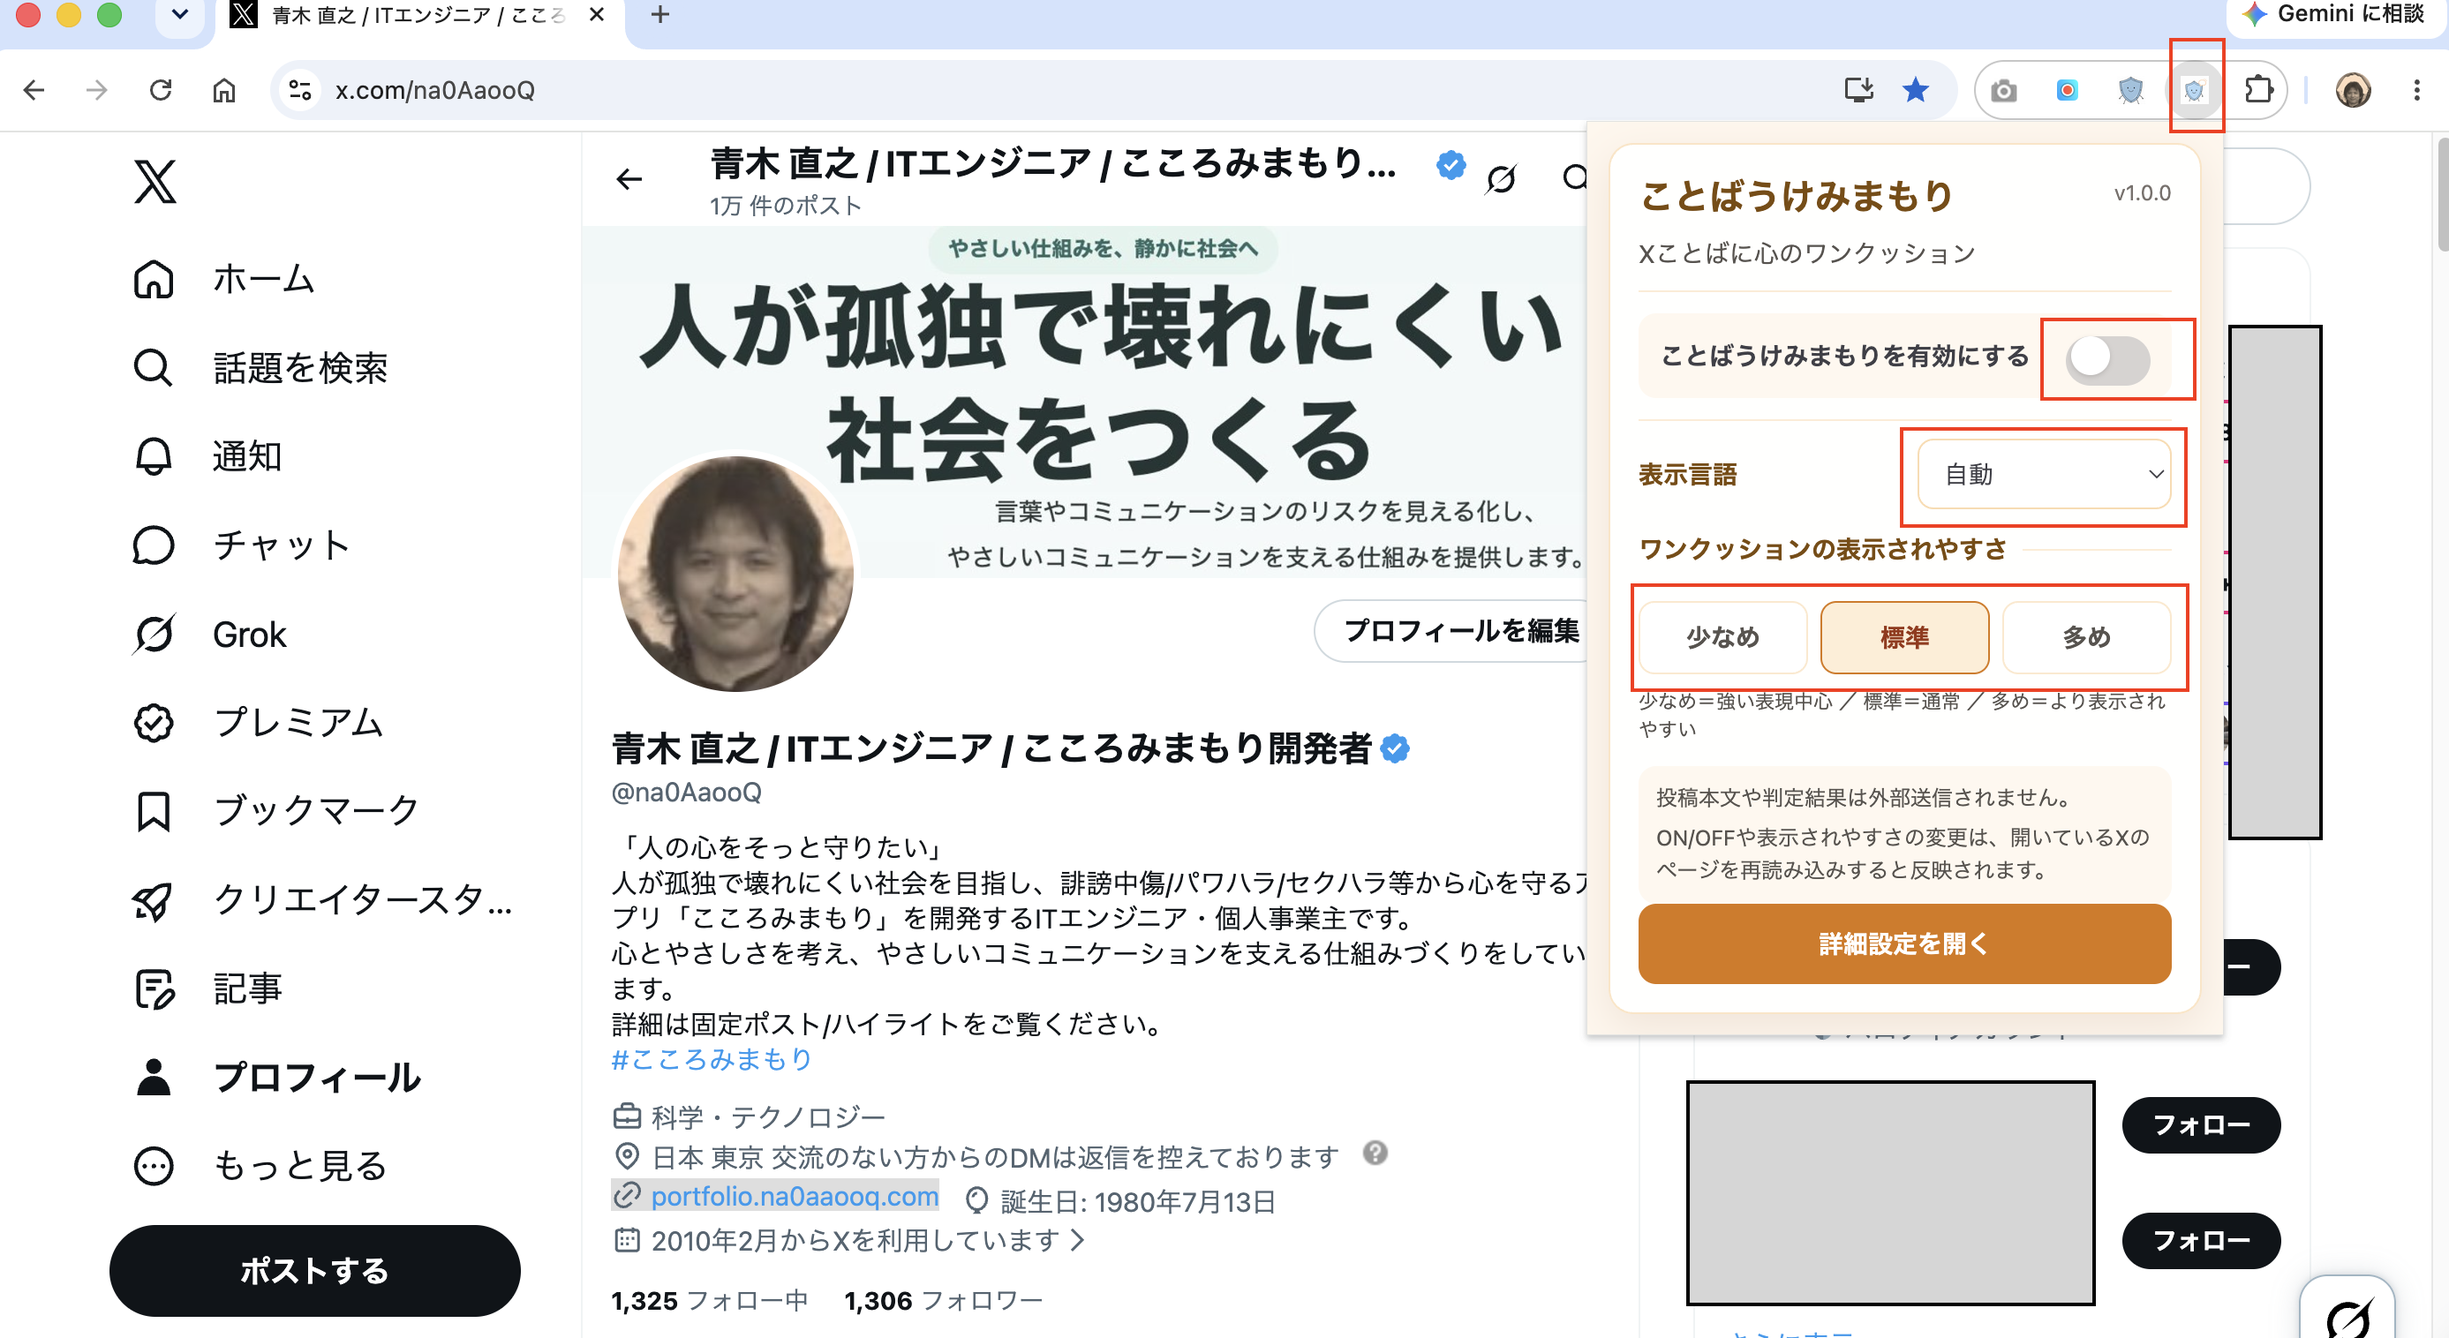
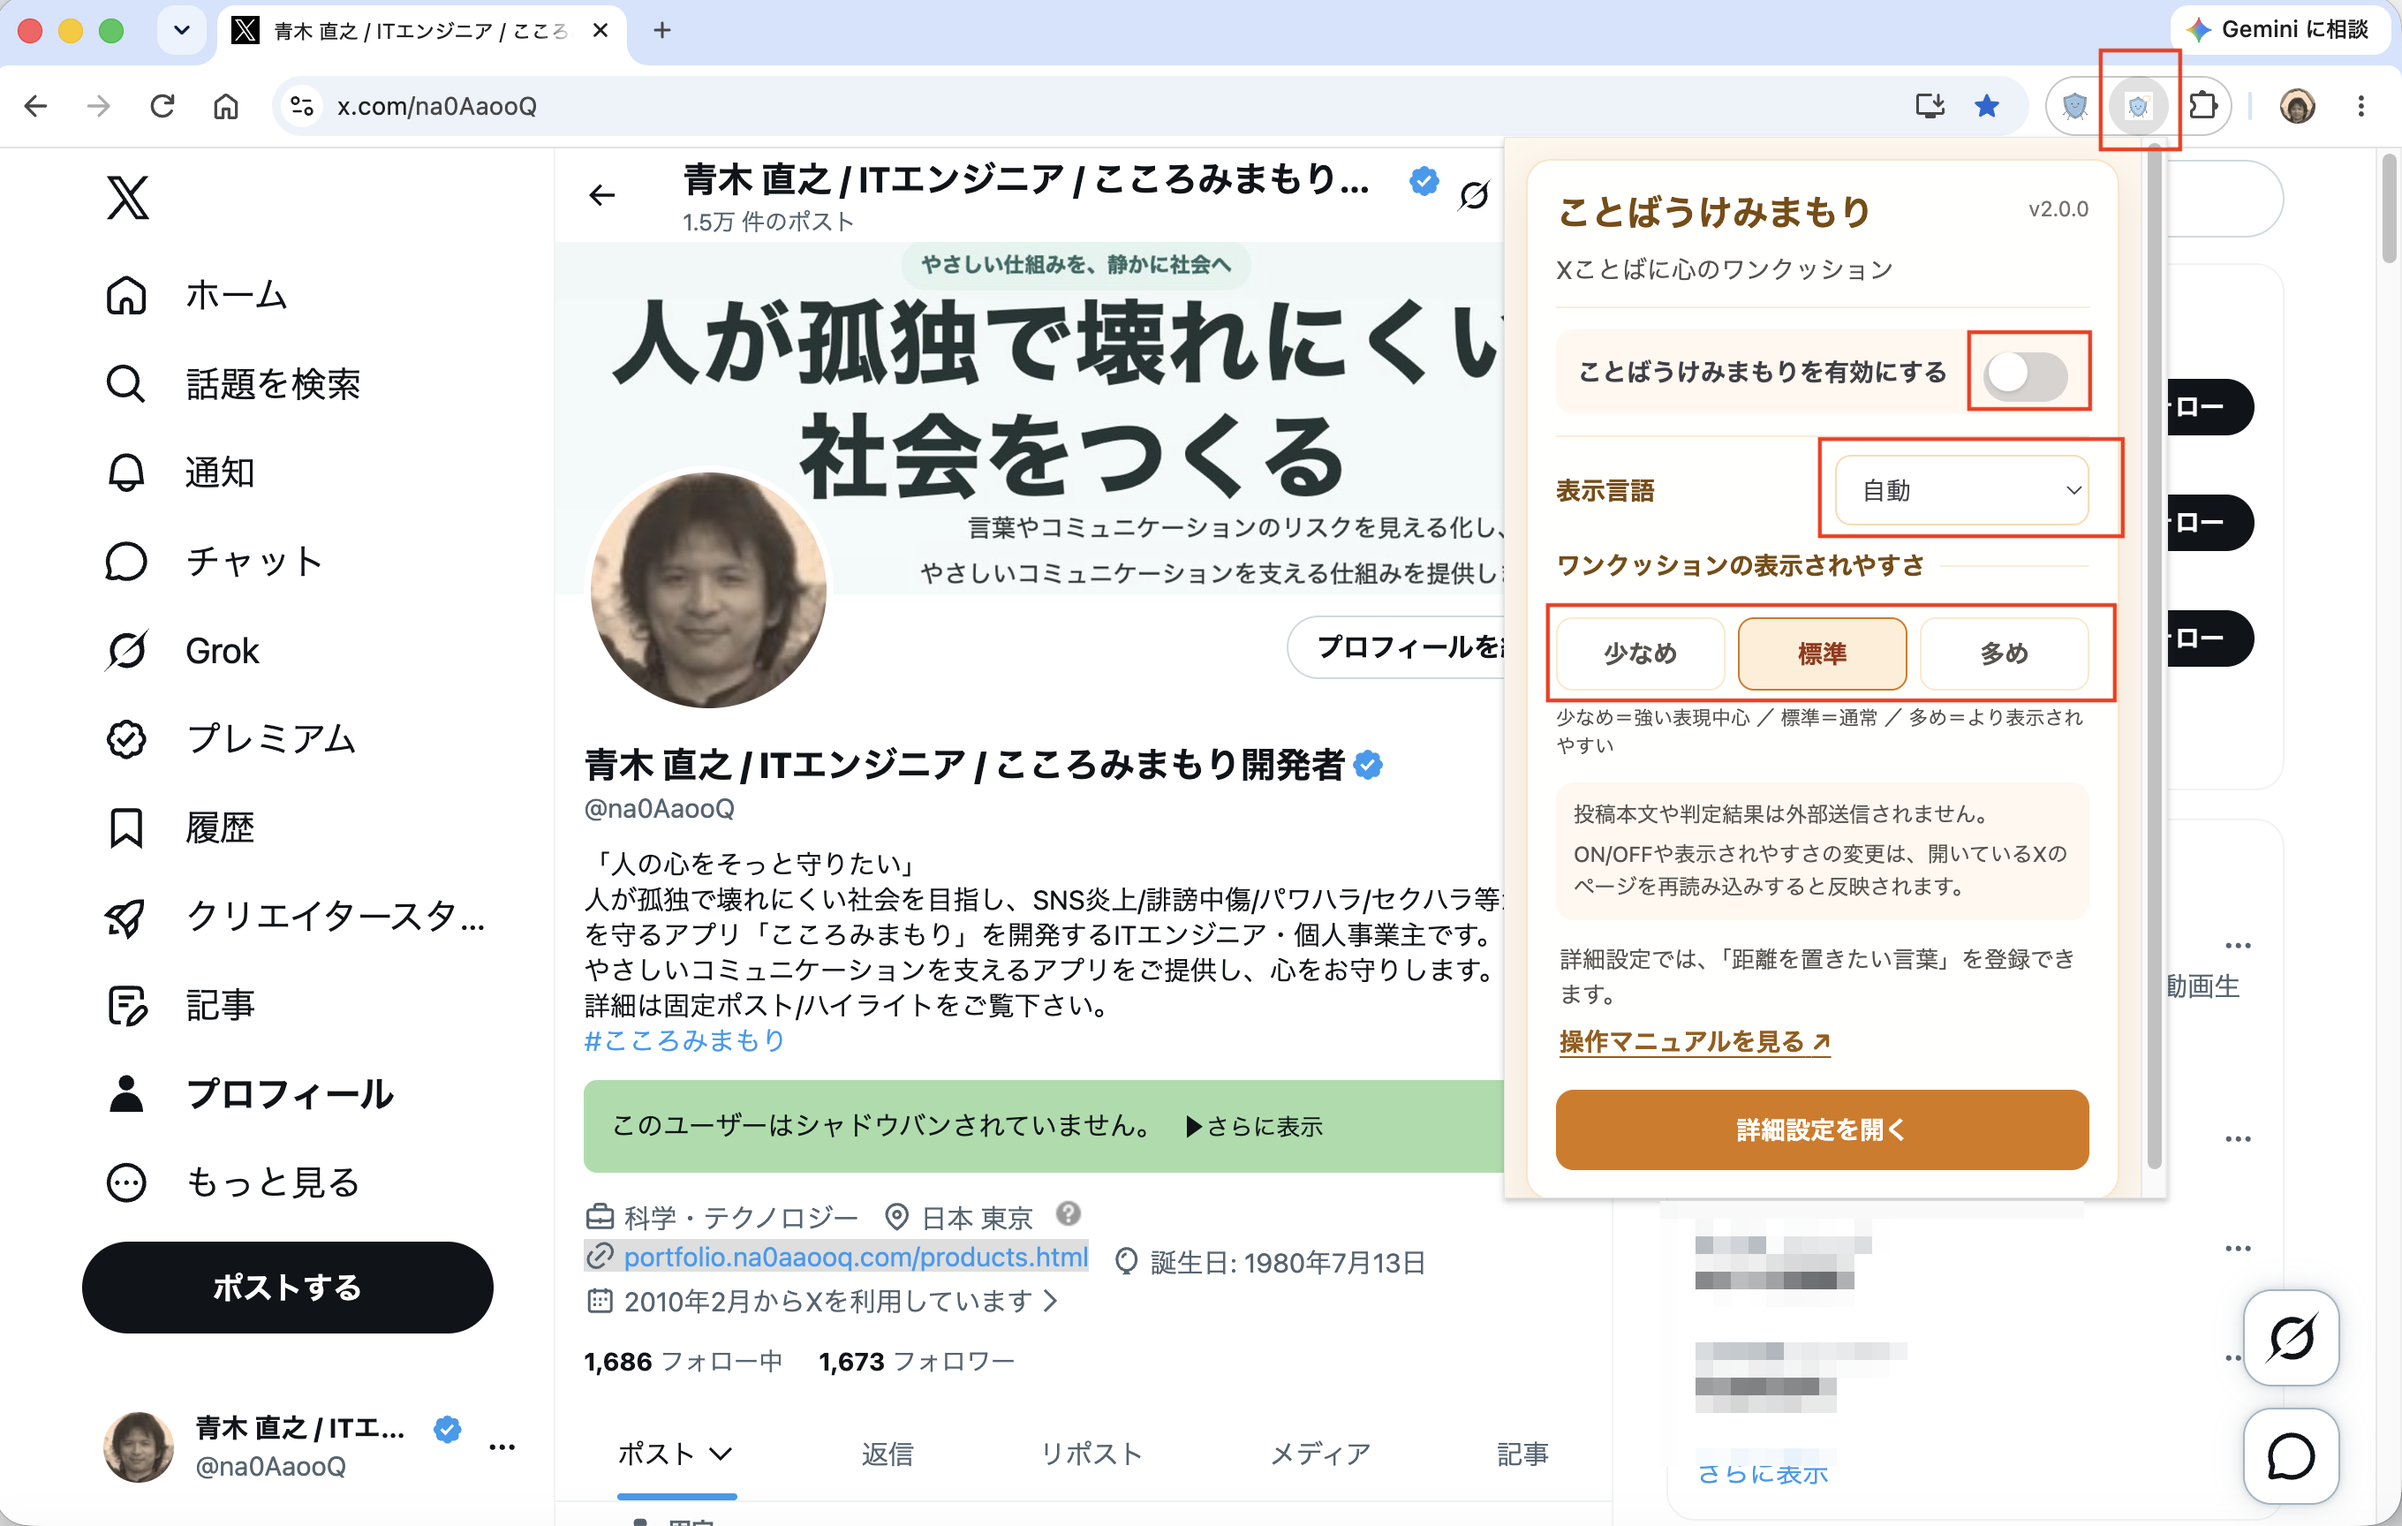
docs: v2.0.0操作マニュアル画像を更新

diff --git a/tests/docs.test.js b/tests/docs.test.js
@@ -44,7 +44,8 @@ const JA_MANUAL_IMAGES = Object.freeze([
   './assets/img/manual/031_manual-popup-ja-on-ja.png',
   './assets/img/manual/032_manual-cushion-ja.png',
   './assets/img/manual/033_manual-collapsed-ja.png',
-  './assets/img/manual/037_manual-option-ja.png'
+  './assets/img/manual/037_manual-option-ja.png',
+  './assets/img/manual/039_manual-option-distance-terms-ja.png'
 ]);
 const EN_MANUAL_IMAGES = Object.freeze([
   '../assets/img/manual/016_manual-show-content-en.png',
@@ -58,7 +59,8 @@ const EN_MANUAL_IMAGES = Object.freeze([
   '../assets/img/manual/034_manual-popup-ja-on-en.png',
   '../assets/img/manual/035_manual-cushion-en.png',
   '../assets/img/manual/036_manual-collapsed-en.png',
-  '../assets/img/manual/038_manual-option-en.png'
+  '../assets/img/manual/038_manual-option-en.png',
+  '../assets/img/manual/040_manual-option-distance-terms-en.png'
 ]);
 const MANUAL_ASSET_FILES = Object.freeze([
   'assets/img/manual/001_manual-load-extension.jpeg',
@@ -89,7 +91,9 @@ const MANUAL_ASSET_FILES = Object.freeze([
   'assets/img/manual/035_manual-cushion-en.png',
   'assets/img/manual/036_manual-collapsed-en.png',
   'assets/img/manual/037_manual-option-ja.png',
-  'assets/img/manual/038_manual-option-en.png'
+  'assets/img/manual/038_manual-option-en.png',
+  'assets/img/manual/039_manual-option-distance-terms-ja.png',
+  'assets/img/manual/040_manual-option-distance-terms-en.png'
 ]);
 const STEP8_MANUAL_ASSET_FILES = Object.freeze([
   'assets/img/manual/029_manual-popup-ja-off-auto.png',
@@ -365,6 +369,7 @@ function testManualAssetsExist() {
   for (const assetPath of MANUAL_ASSET_FILES) {
     const filePath = path.join(__dirname, '..', 'docs', assetPath);
     assert.equal(fs.existsSync(filePath), true);
+    assert.ok(fs.statSync(filePath).size > 0);
   }
 
   for (const assetPath of STEP8_MANUAL_ASSET_FILES) {
@@ -509,8 +514,8 @@ function testStep8ManualImageUpdates() {
     '※画面内のバージョン番号は画面撮影時点のものです。バージョン番号の違いは操作方法に影響ありません。';
   const englishVersionNote =
     'Note: The version number shown in screenshots reflects the version at the time of capture and does not affect these instructions.';
-  const japaneseManualDate = '最終更新日：<time datetime="2026-09-12">2026年9月12日</time>';
-  const englishManualDate = 'Last updated: <time datetime="2026-09-12">September 12, 2026</time>';
+  const japaneseManualDate = '最終更新日：<time datetime="2026-09-17">2026年9月17日</time>';
+  const englishManualDate = 'Last updated: <time datetime="2026-09-17">September 17, 2026</time>';
 
   assertOrderedIncludes(jaManual, [
     './assets/img/manual/029_manual-popup-ja-off-auto.png',
@@ -781,7 +786,10 @@ function testDistanceTermsManualAndPrivacyDocumentation() {
     '問題のある登録データを削除',
     '設定全体を初期化',
     'バージョンアップを続けます',
-    '保存データを変更せず、そのまま保持'
+    '保存データを変更せず、そのまま保持',
+    './assets/img/manual/039_manual-option-distance-terms-ja.png',
+    '「距離を置きたい言葉」の設定で2〜50文字の入力案内、日本語と英語のサンプル4件、各項目のON/OFFと削除ボタンが表示されている画面',
+    '表示言語にかかわらず、登録した言葉を含む投稿にワンクッションを表示できます。画像では日本語と英語の例を登録しています。'
   ]);
   assertIncludesAll(enManual, [
     "Words you'd like some distance from",
@@ -794,7 +802,10 @@ function testDistanceTermsManualAndPrivacyDocumentation() {
     'deleting only the problem data',
     'resetting it',
     'continue to receive version updates',
-    'saved data is left unchanged'
+    'saved data is left unchanged',
+    '../assets/img/manual/040_manual-option-distance-terms-en.png',
+    "The Words you'd like some distance from settings showing the 2-to-50-character input guidance, four Japanese and English sample entries, each entry's ON/OFF state, and Delete buttons",
+    "Registered text can trigger a cushion regardless of the extension's display language. This example includes Japanese and English entries."
   ]);
   assertIncludesAll(jaPrivacy, [
     '<code>distanceTermsSettings</code>',
@@ -995,7 +1006,7 @@ function testDocumentLastUpdatedDates() {
     const html = readDoc(pagePath);
     const date =
       pagePath === 'manual.html'
-        ? '最終更新日：<time datetime="2026-09-12">2026年9月12日</time>'
+        ? '最終更新日：<time datetime="2026-09-17">2026年9月17日</time>'
         : pagePath === 'privacy.html'
           ? '最終更新日：<time datetime="2026-09-10">2026年9月10日</time>'
           : pagePath !== 'disclaimer.html'
@@ -1010,7 +1021,7 @@ function testDocumentLastUpdatedDates() {
     const html = readDoc(pagePath);
     const date =
       pagePath === 'en/manual.html'
-        ? 'Last updated: <time datetime="2026-09-12">September 12, 2026</time>'
+        ? 'Last updated: <time datetime="2026-09-17">September 17, 2026</time>'
         : pagePath === 'en/privacy.html'
           ? 'Last updated: <time datetime="2026-09-10">September 10, 2026</time>'
           : pagePath !== 'en/disclaimer.html'

diff --git a/docs/manual.html b/docs/manual.html
@@ -51,7 +51,7 @@
         <p class="lead">
           「ことばうけみまもり」を有効にすると、X（旧Twitter）で心に負荷がかかる可能性のある投稿について、読むか、今は読まないかを選ぶためのワンクッションが表示されます。
         </p>
-        <p class="last-updated">最終更新日：<time datetime="2026-09-12">2026年9月12日</time></p>
+        <p class="last-updated">最終更新日：<time datetime="2026-09-17">2026年9月17日</time></p>
       </header>
 
       <main class="content-card">
@@ -223,6 +223,10 @@
             <li>「距離を置きたい言葉」機能全体をOFFにしても、登録内容と各登録のON/OFFは保持されます。</li>
             <li>変更後は、開いているXページを再読み込みすると反映されます。</li>
           </ul>
+          <figure class="manual-figure">
+            <img src="./assets/img/manual/039_manual-option-distance-terms-ja.png" alt="「距離を置きたい言葉」の設定で2〜50文字の入力案内、日本語と英語のサンプル4件、各項目のON/OFFと削除ボタンが表示されている画面">
+            <figcaption>表示言語にかかわらず、登録した言葉を含む投稿にワンクッションを表示できます。画像では日本語と英語の例を登録しています。</figcaption>
+          </figure>
           <p>
             登録した文字列について、投稿本文・リプライ・引用ポスト・リポスト内に一致する文字列がある場合に、ワンクッションを表示します。
           </p>

diff --git a/docs/en/manual.html b/docs/en/manual.html
@@ -53,7 +53,7 @@
           reading wording on X that may feel emotionally heavy. You can choose
           whether to read the content or not read it now.
         </p>
-        <p class="last-updated">Last updated: <time datetime="2026-09-12">September 12, 2026</time></p>
+        <p class="last-updated">Last updated: <time datetime="2026-09-17">September 17, 2026</time></p>
       </header>
 
       <main class="content-card">
@@ -208,6 +208,10 @@
             <li>Turning the entire feature OFF keeps your registered text and each entry&apos;s ON/OFF setting.</li>
             <li>After making a change, reload any open X pages for the change to take effect.</li>
           </ul>
+          <figure class="manual-figure">
+            <img src="../assets/img/manual/040_manual-option-distance-terms-en.png" alt="The Words you'd like some distance from settings showing the 2-to-50-character input guidance, four Japanese and English sample entries, each entry's ON/OFF state, and Delete buttons">
+            <figcaption>Registered text can trigger a cushion regardless of the extension's display language. This example includes Japanese and English entries.</figcaption>
+          </figure>
           <p>
             A cushion is shown when matching text is found in post text, a reply, a quoted post, or a repost.
           </p>
